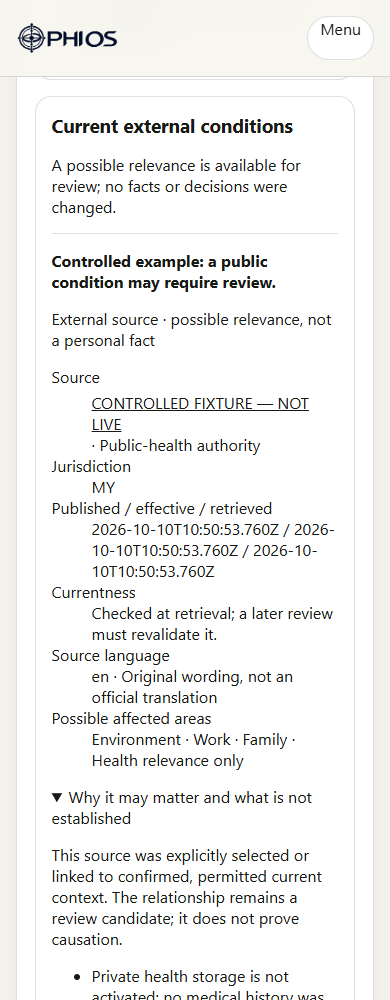
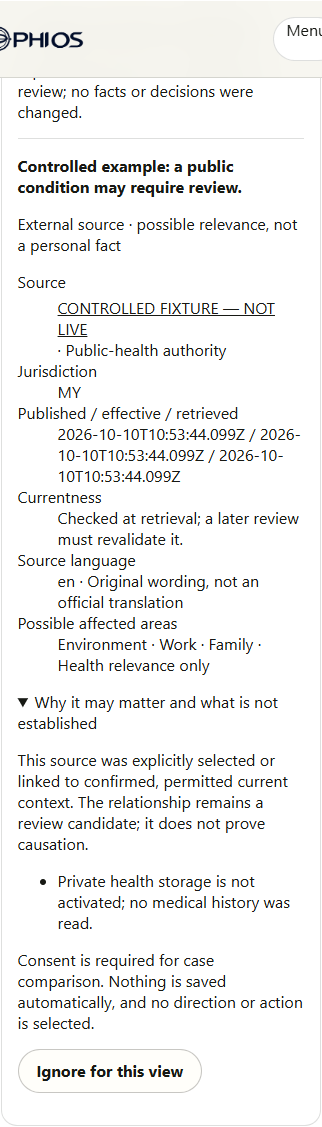
binding

diff --git a/assets/customer-ui/js/surfaces/visual-binding-r5-guides.js b/assets/customer-ui/js/surfaces/visual-binding-r5-guides.js
@@ -3,7 +3,7 @@ const path=location.pathname.replace(/index\.html$/,'');
 const targets={
  '/':[[1,'.cx-home-beginning:nth-child(1)',true],[2,'.cx-home-beginning:nth-child(2)',true],[3,'.cx-home-beginning:nth-child(3)',true],[4,'.cx-home-beginning:nth-child(4)',true],[5,'.cx-home-beginning:nth-child(5)',true],[6,'.cx-home-beginning:nth-child(6)',true]],
  '/reality/':[[9,'[data-cx-panel="overview"]'],[10,'[data-cx-panel="navigation"]'],[11,'[data-cx-panel="history"]'],[14,'[data-cx-panel="reading"]'],[15,'[data-cx-panel="navigation"]'],[16,'[data-cx-panel="current"]']],
- '/account/':[[18,'.cx-account-hero'],[19,'.cx-account-shortcuts .cx-card:last-child'],[20,'#account-reports'],[21,'#account-persons'],[22,'[data-released-reports]'],[23,'[data-cx-account-continuity]'],[24,'[data-r5-account-auth]'],[88,'[data-r6-account-permission-gate="true"]']],
+ '/account/':[[18,'.cx-account-hero'],[19,'.cx-account-shortcuts .cx-card:last-child'],[20,'#account-reports'],[21,'#account-persons'],[22,'#account-reports article'],[23,'[data-cx-account-continuity]'],[24,'[data-r5-account-auth]'],[88,'[data-r6-account-permission-gate="true"]']],
  '/perspectives/profile/':[[33,'#profile-modes .cx-container'],[34,'#profile-modes .cx-container'],[35,'[data-prf-results] .cx-container'],[36,'[data-prf-workbench] .prf-guide'],[37,'[data-prf-dossier-dialog]'],[38,'[data-prf-handoff-panel]'],[39,'[data-prf-boundaries]']],
  '/perspectives/tarot/':[[40,'[data-reading-step="question"]'],[41,'[data-reading-step="spread"]'],[42,'[data-reading-step="draw"]'],[43,'[data-customer-layer="INTERPRETATION"]'],[44,'[data-customer-layer="REALITY"]'],[45,'[data-customer-layer="NEXT"]']]
  ,'/perspectives/iching/':[[46,'.icx-entry-paths']]

diff --git a/assets/customer-ui/js/surfaces/contextual-ask.js b/assets/customer-ui/js/surfaces/contextual-ask.js
@@ -241,7 +241,7 @@ async function loadSeededContexts(){
     if(node.querySelector('[data-context-type="KNOWLEDGE"]:checked')&&document.querySelector('[name="contextKnowledge"]'))document.querySelector('[name="contextKnowledge"]').checked=false;
   }catch(error){
     seedFailed=true;
-    if(visualSourceLoadFailure||error instanceof TypeError||['AbortError','TimeoutError'].includes(error?.name))node.dataset.r6SourceLoadFailure='true';
+    if(visualSourceLoadFailure||error instanceof TypeError||['AbortError','TimeoutError'].includes(error?.name)){node.dataset.r6SourceLoadFailure='true';const panel=node.closest('details');if(panel)panel.open=true;}
     node.innerHTML=`<div class="cx-p1-callout">${esc(tr('The selected source could not be loaded. Retry, or explicitly choose Knowledge only.','所选来源暂时无法载入。请重试，或明确选择只使用知识提问。'))}</div>`;
   }finally{seedLoading=false;queueMicrotask(()=>document.dispatchEvent(new Event('phios:ask-source-rendered')));}
 }
